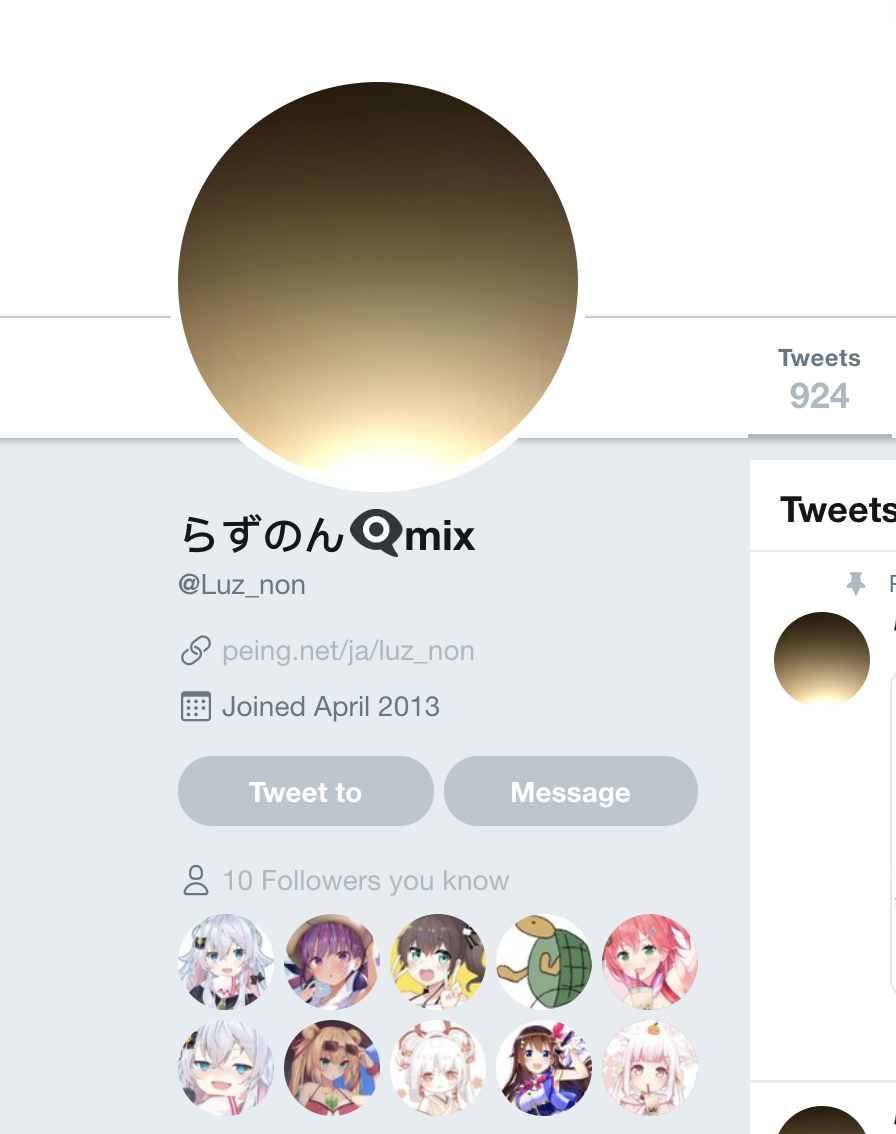
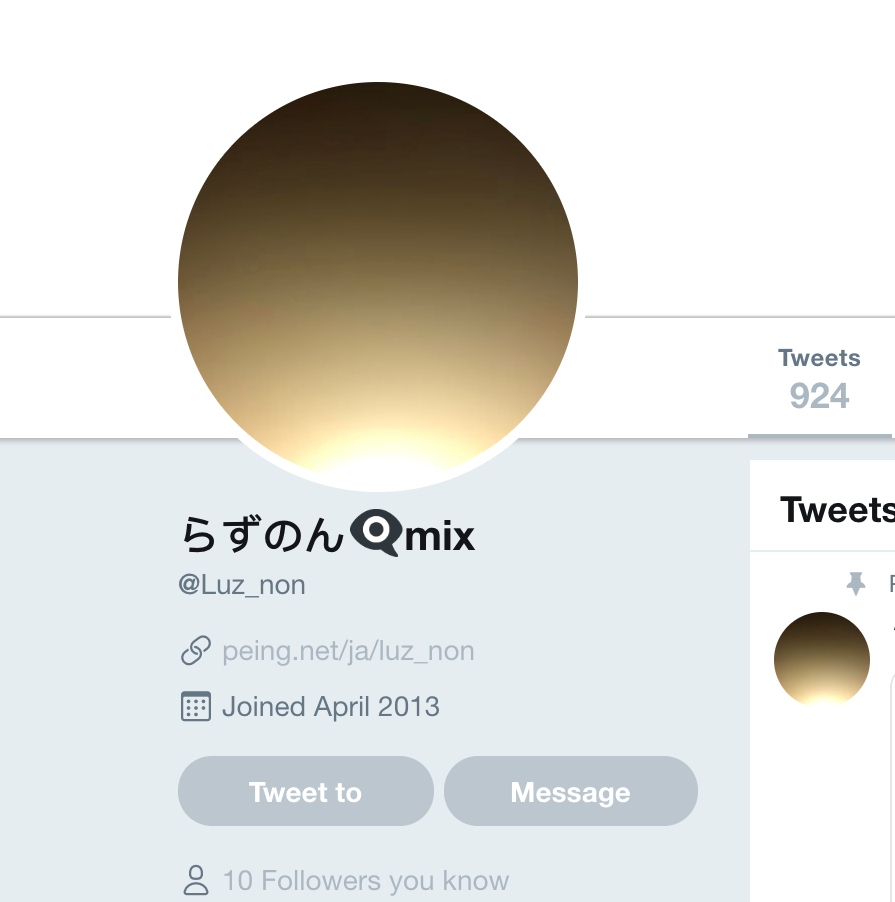
部分图片裁切掉冗余部分，添加了石再次更改推特信息截图，已附图片的部分删去了"已上传至xxx"

diff --git a/README.md b/README.md
@@ -1,8 +1,11 @@
 # Hololive与中方对接人员 石先生 部分言行及相关资料整理
+
 ## 完 全 胜 利 石已被COVER解雇，相关公告翻译已经在路上了
+
 ## [文本版](最终公告)
 
 ![最终公告2](最终公告/最终公告.png)
+
 ## 中国Hololive旗下全体VTB粉丝联名信已公开，原件(中文版和日文版)已授权上传
 
 在线预览 [中文版](Hololive粉丝联名信中文版) [日文版](Hololive粉丝联名信日文版)
@@ -13,12 +16,11 @@
 
 希望大家多多扩散，点赞转推或分享专栏给自己的友人等
 
-
 ## 前言
 
 此事持续跟进，石头人必死
 
-您未有亵渎生命的艺术的想法吗？石先生
+您未有亵渎生命的艺术的想法吗？石先生？
 
 现在加line骚扰，下次是不是就直接性骚扰中之人了？
 
@@ -49,6 +51,7 @@
 [推特变动](https://hololive-720.vtbs.moe/%E6%8E%A8%E7%89%B9%E7%AE%80%E4%BB%8B%E5%8F%98%E5%8A%A8/)
 
 ## 目前事态发展
+
 **[事态发展请点此](相关后续)**
 
 1、石某短暂出现，向字幕组“致歉”
@@ -65,29 +68,31 @@
 
 ![胃某3](相关人员的致歉/胃某道歉3和相关解释.png)
 
-4、胃某发布了收益资金相关的B博(已上传至相关后续)(8%石头税)
+4、胃某发布了收益资金相关的B博(8%石头税)
 
 ![胃某发布收益资金相关](相关后续/[动态]7月20日9点未知分-胃动态说明资金克扣问题.jpg)
 
-5、推特发布道歉。(您未亵渎nm呢？)(已上传至相关后续)
+5、推特发布道歉。(您未亵渎nm呢？)
 
 ![推特道歉](相关后续/[道歉]石某推特道歉.jpg)
 
-6、胃某说B站承诺提前打款(已上传至相关后续)
+6、胃某说B站承诺提前打款
 
 ![承诺打款](相关后续/[评论]承诺打款.png)
 
-7、夜夜疑似与石某取得联系，如果半小时内不回复将公开聊天记录。(已上传至相关后续)
+7、夜夜疑似与石某取得联系，如果半小时内不回复将公开聊天记录。
 
 ![疑似取得联系](相关后续/[动态]7月20日13点未知分-夜夜动态表示与石取得联系.jpg)
 
-8、石某推特简介突然删除。(前后对比已上传至推特简介变动)
+8、石某推特简介突然删除。
 
 ![变更前](推特简介变动/推特更改前.jpg)
 
 ![变更后](推特简介变动/推特更改后.jpg)
 
-9、夜夜发布了一条附带视频的动态，让群众判断其是否真实跳反，同时发布了一条疑似有新的视频的动态。(动态截图和视频文件已上传至相关后续)(再次发布新动态)
+![变更2](推特简介变动/推特更改.png)
+
+9、夜夜发布了一条附带视频的动态，让群众判断其是否真实跳反，同时发布了一条疑似有新的视频的动态。(再次发布新动态)
 
 ![夜夜视频](相关后续/[动态]7月20日13点未知分-夜夜证明与石取得联系.png)
 
@@ -95,11 +100,13 @@
 
 [视频链接](https://vc.bilibili.com/video/2362330)
 
-10、胃某发布COVER近期卸任石某的消息(相关截图已上传至相关后续)
+10、胃某发布COVER近期卸任石某的消息
 
 ![疑似卸任石某](相关后续/[动态]7月20日14点未知分-石某卸任_存疑.png)
 
-## 以下为石先生相关账号等
+11、Cover发布公告，宣布与石某及其公司解除合作，见文首图片
+
+## 以下为石先生相关账号
 
 | 平台 | 账号     | 注   |
 | ---- | -------- | ---- |
